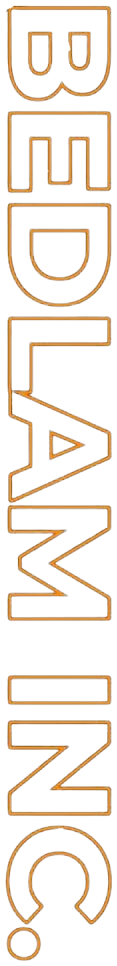
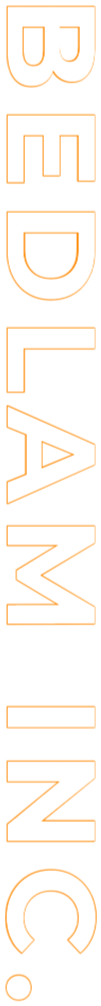
added bg text

Changed region(s): [[0.0594, 0.0, 0.9802, 0.6522], [0.0297, 0.6832, 0.9802, 1.0]]

diff --git a/docs/output.css b/docs/output.css
@@ -37,7 +37,6 @@
     --default-mono-font-family: var(--font-mono);
     --font-roboto: "Roboto", sans-serif;
     --color-acent: #ff8a00;
-    --animate-next1: next1 1s ease-in forwards;
   }
 }
 @layer base {
@@ -242,24 +241,6 @@
   .left-\[100\%\] {
     left: 100%;
   }
-  .container {
-    width: 100%;
-    @media (width >= 40rem) {
-      max-width: 40rem;
-    }
-    @media (width >= 48rem) {
-      max-width: 48rem;
-    }
-    @media (width >= 64rem) {
-      max-width: 64rem;
-    }
-    @media (width >= 80rem) {
-      max-width: 80rem;
-    }
-    @media (width >= 96rem) {
-      max-width: 96rem;
-    }
-  }
   .mx-4 {
     margin-inline: calc(var(--spacing) * 4);
   }
@@ -435,6 +416,12 @@
   .bg-\[\#0e0e0e\] {
     background-color: #0e0e0e;
   }
+  .bg-\[url\(\'images\/BEDLAM-INC\.png\'\)\,\] {
+    background-color: url('images/BEDLAM-INC.png'),;
+  }
+  .bg-\[url\] {
+    background-color: url;
+  }
   .bg-acent {
     background-color: var(--color-acent);
   }
@@ -444,17 +431,167 @@
   .bg-neutral-200 {
     background-color: var(--color-neutral-200);
   }
-  .bg-neutral-400 {
-    background-color: var(--color-neutral-400);
+  .bg-neutral-500 {
+    background-color: var(--color-neutral-500);
   }
   .bg-white {
     background-color: var(--color-white);
   }
+  .bg-\[url\(\'\'\)\] {
+    background-image: url('');
+  }
   .bg-\[url\(\'\/img\/top-left\.png\'\)\,url\(\'\/img\/top-right\.png\'\)\,url\(\'\/img\/bottom-left\.png\'\)\,url\(\'\/img\/bottom-right\.png\'\)\] {
     background-image: url('/img/top-left.png'),url('/img/top-right.png'),url('/img/bottom-left.png'),url('/img/bottom-right.png');
   }
+  .bg-\[url\(\'im\'\)\,url\(\'\/img\/top-right\.png\'\)\,url\(\'\/img\/bottom-left\.png\'\)\,url\(\'\/img\/bottom-right\.png\'\)\] {
+    background-image: url('im'),url('/img/top-right.png'),url('/img/bottom-left.png'),url('/img/bottom-right.png');
+  }
+  .bg-\[url\(\'ima\'\)\,url\(\'\/img\/top-right\.png\'\)\,url\(\'\/img\/bottom-left\.png\'\)\,url\(\'\/img\/bottom-right\.png\'\)\] {
+    background-image: url('ima'),url('/img/top-right.png'),url('/img/bottom-left.png'),url('/img/bottom-right.png');
+  }
+  .bg-\[url\(\'images\/\'\)\] {
+    background-image: url('images/');
+  }
+  .bg-\[url\(\'images\/BEDLAM\'\)\] {
+    background-image: url('images/BEDLAM');
+  }
+  .bg-\[url\(\'images\/BEDLAM-INC\'\)\] {
+    background-image: url('images/BEDLAM-INC');
+  }
+  .bg-\[url\(\'images\/BEDLAM-INC\.PNG\'\)\] {
+    background-image: url('images/BEDLAM-INC.PNG');
+  }
+  .bg-\[url\(\'images\/BEDLAM-INC\.png\'\)\,url\(\'images\/BEDLAM-INC\.png\'\)\,url\(\'images\/BEDLAM-INC\.png\'\)\,url\(\'images\/BEDLAM-INC\.png\'\)\,url\(\'images\/BEDLAM-INC\.png\'\)\] {
+    background-image: url('images/BEDLAM-INC.png'),url('images/BEDLAM-INC.png'),url('images/BEDLAM-INC.png'),url('images/BEDLAM-INC.png'),url('images/BEDLAM-INC.png');
+  }
+  .bg-\[url\(\'images\/BEDLAM-INC\.png\'\)\] {
+    background-image: url('images/BEDLAM-INC.png');
+  }
+  .bg-\[url\(\)\] {
+    background-image: url();
+  }
+  .bg-clip-text {
+    background-clip: text;
+  }
+  .\[background-position\:1rem\] {
+    background-position: 1rem;
+  }
   .\[background-position\:1rem_2rem\,calc\(100\%-5rem\)_2rem\,1rem_calc\(100\%-5rem\)\,calc\(100\%-5rem\)_calc\(100\%-5rem\)\] {
     background-position: 1rem 2rem,calc(100% - 5rem) 2rem,1rem calc(100% - 5rem),calc(100% - 5rem) calc(100% - 5rem);
+  }
+  .\[background-position\:1rem_2rem\,calc\(100\%_-_5rem\)_2rem\,1rem_calc\(100\%_-_5rem\)\,calc\(100\%_-_5rem\)_calc\(100\%_-_5rem\)\] {
+    background-position: 1rem 2rem,calc(100% - 5rem) 2rem,1rem calc(100% - 5rem),calc(100% - 5rem) calc(100% - 5rem);
+  }
+  .\[background-position\:1rem_2rem\] {
+    background-position: 1rem 2rem;
+  }
+  .bg-position-\[1rem_0rem\,calc\(100\%-5rem\)_2rem\,1rem_calc\(100\%-5rem\)\,calc\(100\%-5rem\)_calc\(100\%-5rem\)\] {
+    background-position: 1rem 0rem,calc(100% - 5rem) 2rem,1rem calc(100% - 5rem),calc(100% - 5rem) calc(100% - 5rem);
+  }
+  .bg-position-\[1rem_2rem\,calc\(100\%-5rem\)_2rem\,1rem_calc\(100\%-5rem\)\,calc\(100\%-5rem\)_calc\(100\%-5rem\)\] {
+    background-position: 1rem 2rem,calc(100% - 5rem) 2rem,1rem calc(100% - 5rem),calc(100% - 5rem) calc(100% - 5rem);
+  }
+  .bg-position-\[1rem_2rem\] {
+    background-position: 1rem 2rem;
+  }
+  .bg-position-\[1rem_10rem\,calc\(100\%-5rem\)_2rem\,1rem_calc\(100\%-5rem\)\,calc\(100\%-5rem\)_calc\(100\%-5rem\)\] {
+    background-position: 1rem 10rem,calc(100% - 5rem) 2rem,1rem calc(100% - 5rem),calc(100% - 5rem) calc(100% - 5rem);
+  }
+  .bg-position-\[1rem_30rem\,calc\(100\%-5rem\)_2rem\,1rem_calc\(100\%-5rem\)\,calc\(100\%-5rem\)_calc\(100\%-5rem\)\] {
+    background-position: 1rem 30rem,calc(100% - 5rem) 2rem,1rem calc(100% - 5rem),calc(100% - 5rem) calc(100% - 5rem);
+  }
+  .bg-position-\[1rem_35rem\,calc\(100\%-5rem\)_2rem\,1rem_calc\(100\%-5rem\)\,calc\(100\%-5rem\)_calc\(100\%-5rem\)\] {
+    background-position: 1rem 35rem,calc(100% - 5rem) 2rem,1rem calc(100% - 5rem),calc(100% - 5rem) calc(100% - 5rem);
+  }
+  .bg-position-\[1rem_40rem\,calc\(100\%-5rem\)_2rem\,1rem_calc\(100\%-5rem\)\,calc\(100\%-5rem\)_calc\(100\%-5rem\)\] {
+    background-position: 1rem 40rem,calc(100% - 5rem) 2rem,1rem calc(100% - 5rem),calc(100% - 5rem) calc(100% - 5rem);
+  }
+  .bg-position-\[1rem_50rem\,10_2rem\,1rem_calc\(100\%-5rem\)\,calc\(100\%-5rem\)_calc\(100\%-5rem\)\] {
+    background-position: 1rem 50rem,10 2rem,1rem calc(100% - 5rem),calc(100% - 5rem) calc(100% - 5rem);
+  }
+  .bg-position-\[1rem_50rem\,100rem_2rem\,1rem_calc\(100\%-5rem\)\,calc\(100\%-5rem\)_calc\(100\%-5rem\)\] {
+    background-position: 1rem 50rem,100rem 2rem,1rem calc(100% - 5rem),calc(100% - 5rem) calc(100% - 5rem);
+  }
+  .bg-position-\[1rem_50rem\,_2rem\,1rem_calc\(100\%-5rem\)\,calc\(100\%-5rem\)_calc\(100\%-5rem\)\] {
+    background-position: 1rem 50rem, 2rem,1rem calc(100% - 5rem),calc(100% - 5rem) calc(100% - 5rem);
+  }
+  .bg-position-\[1rem_50rem\,calc\(100\%-1rem\)_2rem\,1rem_calc\(100\%-5rem\)\,calc\(100\%-5rem\)_calc\(100\%-5rem\)\] {
+    background-position: 1rem 50rem,calc(100% - 1rem) 2rem,1rem calc(100% - 5rem),calc(100% - 5rem) calc(100% - 5rem);
+  }
+  .bg-position-\[1rem_50rem\,calc\(100\%-2rem\)_2rem\,1rem_calc\(100\%-5rem\)\,calc\(100\%-5rem\)_calc\(100\%-5rem\)\] {
+    background-position: 1rem 50rem,calc(100% - 2rem) 2rem,1rem calc(100% - 5rem),calc(100% - 5rem) calc(100% - 5rem);
+  }
+  .bg-position-\[1rem_50rem\,calc\(100\%-5rem\)_2rem\,1rem_calc\(100\%-5rem\)\,calc\(100\%-5rem\)_calc\(100\%-5rem\)\] {
+    background-position: 1rem 50rem,calc(100% - 5rem) 2rem,1rem calc(100% - 5rem),calc(100% - 5rem) calc(100% - 5rem);
+  }
+  .bg-position-\[1rem_rem\,calc\(100\%-5rem\)_2rem\,1rem_calc\(100\%-5rem\)\,calc\(100\%-5rem\)_calc\(100\%-5rem\)\] {
+    background-position: 1rem rem,calc(100% - 5rem) 2rem,1rem calc(100% - 5rem),calc(100% - 5rem) calc(100% - 5rem);
+  }
+  .bg-position-\[2rem_45rem\,calc\(100\%-2rem\)_10rem\,2rem_10rem\,calc\(100\%-5rem\)_calc\(100\%-5rem\)\] {
+    background-position: 2rem 45rem,calc(100% - 2rem) 10rem,2rem 10rem,calc(100% - 5rem) calc(100% - 5rem);
+  }
+  .bg-position-\[2rem_45rem\,calc\(100\%-2rem\)_10rem\,2rem_100rem\,calc\(100\%-5rem\)_calc\(100\%-5rem\)\] {
+    background-position: 2rem 45rem,calc(100% - 2rem) 10rem,2rem 100rem,calc(100% - 5rem) calc(100% - 5rem);
+  }
+  .bg-position-\[2rem_45rem\,calc\(100\%-2rem\)_10rem\,2rem_150rem\,calc\(100\%-5rem\)_calc\(100\%-5rem\)\] {
+    background-position: 2rem 45rem,calc(100% - 2rem) 10rem,2rem 150rem,calc(100% - 5rem) calc(100% - 5rem);
+  }
+  .bg-position-\[2rem_45rem\,calc\(100\%-2rem\)_10rem\,2rem_200rem\,calc\(100\%-2rem\)0rem\] {
+    background-position: 2rem 45rem,calc(100% - 2rem) 10rem,2rem 200rem,calc(100% - 2rem)0rem;
+  }
+  .bg-position-\[2rem_45rem\,calc\(100\%-2rem\)_10rem\,2rem_200rem\,calc\(100\%-2rem\)_50rem\] {
+    background-position: 2rem 45rem,calc(100% - 2rem) 10rem,2rem 200rem,calc(100% - 2rem) 50rem;
+  }
+  .bg-position-\[2rem_45rem\,calc\(100\%-2rem\)_10rem\,2rem_200rem\,calc\(100\%-2rem\)_70rem\] {
+    background-position: 2rem 45rem,calc(100% - 2rem) 10rem,2rem 200rem,calc(100% - 2rem) 70rem;
+  }
+  .bg-position-\[2rem_45rem\,calc\(100\%-2rem\)_10rem\,2rem_200rem\,calc\(100\%-2rem\)_85rem\] {
+    background-position: 2rem 45rem,calc(100% - 2rem) 10rem,2rem 200rem,calc(100% - 2rem) 85rem;
+  }
+  .bg-position-\[2rem_45rem\,calc\(100\%-2rem\)_10rem\,2rem_200rem\,calc\(100\%-2rem\)_90rem\] {
+    background-position: 2rem 45rem,calc(100% - 2rem) 10rem,2rem 200rem,calc(100% - 2rem) 90rem;
+  }
+  .bg-position-\[2rem_45rem\,calc\(100\%-2rem\)_10rem\,2rem_200rem\,calc\(100\%-2rem\)_\] {
+    background-position: 2rem 45rem,calc(100% - 2rem) 10rem,2rem 200rem,calc(100% - 2rem) ;
+  }
+  .bg-position-\[2rem_45rem\,calc\(100\%-2rem\)_10rem\,2rem_200rem\,calc\(100\%-2rem\)_calc\(100\%-5rem\)\] {
+    background-position: 2rem 45rem,calc(100% - 2rem) 10rem,2rem 200rem,calc(100% - 2rem) calc(100% - 5rem);
+  }
+  .bg-position-\[2rem_45rem\,calc\(100\%-2rem\)_10rem\,2rem_200rem\,calc\(100\%-2rem\)_rem\] {
+    background-position: 2rem 45rem,calc(100% - 2rem) 10rem,2rem 200rem,calc(100% - 2rem) rem;
+  }
+  .bg-position-\[2rem_45rem\,calc\(100\%-2rem\)_10rem\,2rem_200rem\,calc\(100\%-5rem\)_calc\(100\%-5rem\)\] {
+    background-position: 2rem 45rem,calc(100% - 2rem) 10rem,2rem 200rem,calc(100% - 5rem) calc(100% - 5rem);
+  }
+  .bg-position-\[2rem_45rem\,calc\(100\%-2rem\)_10rem\,2rem_20050rem\,calc\(100\%-5rem\)_calc\(100\%-5rem\)\] {
+    background-position: 2rem 45rem,calc(100% - 2rem) 10rem,2rem 20050rem,calc(100% - 5rem) calc(100% - 5rem);
+  }
+  .bg-position-\[2rem_50rem\,calc\(100\%-2rem\)_2rem\,1rem_calc\(100\%-5rem\)\,calc\(100\%-5rem\)_calc\(100\%-5rem\)\] {
+    background-position: 2rem 50rem,calc(100% - 2rem) 2rem,1rem calc(100% - 5rem),calc(100% - 5rem) calc(100% - 5rem);
+  }
+  .bg-position-\[2rem_50rem\,calc\(100\%-2rem\)_2rem\,2rem_calc\(100\%-5rem\)\,calc\(100\%-5rem\)_calc\(100\%-5rem\)\] {
+    background-position: 2rem 50rem,calc(100% - 2rem) 2rem,2rem calc(100% - 5rem),calc(100% - 5rem) calc(100% - 5rem);
+  }
+  .bg-position-\[2rem_50rem\,calc\(100\%-2rem\)_10rem\,2rem_\,calc\(100\%-5rem\)_calc\(100\%-5rem\)\] {
+    background-position: 2rem 50rem,calc(100% - 2rem) 10rem,2rem ,calc(100% - 5rem) calc(100% - 5rem);
+  }
+  .bg-position-\[2rem_50rem\,calc\(100\%-2rem\)_10rem\,2rem_55\,calc\(100\%-5rem\)_calc\(100\%-5rem\)\] {
+    background-position: 2rem 50rem,calc(100% - 2rem) 10rem,2rem 55,calc(100% - 5rem) calc(100% - 5rem);
+  }
+  .bg-position-\[2rem_50rem\,calc\(100\%-2rem\)_10rem\,2rem_55rem\,calc\(100\%-5rem\)_calc\(100\%-5rem\)\] {
+    background-position: 2rem 50rem,calc(100% - 2rem) 10rem,2rem 55rem,calc(100% - 5rem) calc(100% - 5rem);
+  }
+  .bg-position-\[2rem_50rem\,calc\(100\%-2rem\)_10rem\,2rem_100rem\,calc\(100\%-5rem\)_calc\(100\%-5rem\)\] {
+    background-position: 2rem 50rem,calc(100% - 2rem) 10rem,2rem 100rem,calc(100% - 5rem) calc(100% - 5rem);
+  }
+  .bg-position-\[2rem_50rem\,calc\(100\%-2rem\)_10rem\,2rem_calc\(100\%-5rem\)\,calc\(100\%-5rem\)_calc\(100\%-5rem\)\] {
+    background-position: 2rem 50rem,calc(100% - 2rem) 10rem,2rem calc(100% - 5rem),calc(100% - 5rem) calc(100% - 5rem);
+  }
+  .bg-position-\[2rem_50rem\,calc\(100\%-2rem\)_10rem\,2rem_rem\,calc\(100\%-5rem\)_calc\(100\%-5rem\)\] {
+    background-position: 2rem 50rem,calc(100% - 2rem) 10rem,2rem rem,calc(100% - 5rem) calc(100% - 5rem);
+  }
+  .bg-position-\[2rem_rem\,calc\(100\%-2rem\)_10rem\,2rem_100rem\,calc\(100\%-5rem\)_calc\(100\%-5rem\)\] {
+    background-position: 2rem rem,calc(100% - 2rem) 10rem,2rem 100rem,calc(100% - 5rem) calc(100% - 5rem);
   }
   .bg-no-repeat {
     background-repeat: no-repeat;
@@ -557,6 +694,9 @@
     --tw-tracking: var(--tracking-wider);
     letter-spacing: var(--tracking-wider);
   }
+  .text-clip {
+    text-overflow: clip;
+  }
   .whitespace-nowrap {
     white-space: nowrap;
   }
@@ -584,6 +724,10 @@
   .outline {
     outline-style: var(--tw-outline-style);
     outline-width: 1px;
+  }
+  .duration-150 {
+    --tw-duration: 150ms;
+    transition-duration: 150ms;
   }
   .duration-200 {
     --tw-duration: 200ms;
@@ -625,6 +769,13 @@
     &:hover {
       @media (hover: hover) {
         color: var(--color-acent);
+      }
+    }
+  }
+  .hover\:text-neutral-400 {
+    &:hover {
+      @media (hover: hover) {
+        color: var(--color-neutral-400);
       }
     }
   }

diff --git a/docs/index.html b/docs/index.html
@@ -49,8 +49,8 @@
 
     </header>
 
-    <main class="bg-[#0e0e0e] text-white">
-        <section class="relative">
+    <main class="bg-[#0e0e0e] text-white bg-[url('images/BEDLAM-INC.png'),url('images/BEDLAM-INC.png'),url('images/BEDLAM-INC.png'),url('images/BEDLAM-INC.png'),url('images/BEDLAM-INC.png')] bg-position-[2rem_45rem,calc(100%-2rem)_10rem,2rem_200rem,calc(100%-2rem)_85rem] bg-no-repeat">
+        <section class="relative ">
             <!-- bg-[url('/img/top-left.png'),url('/img/top-right.png'),url('/img/bottom-left.png'),url('/img/bottom-right.png')]
 [background-position:1rem_2rem,calc(100%-5rem)_2rem,1rem_calc(100%-5rem),calc(100%-5rem)_calc(100%-5rem)] bg-no-repeat -->
             
@@ -164,29 +164,29 @@
 
                 <div>
                     <ul class="flex flex-col gap-6">
-                        <li><a href="#">SERVICES</a></li>
-                        <li><a href="#">STRATEGY</a></li>
-                        <li><a href="#">CAREER</a></li>
-                        <li><a href="#">INVESTOR</a></li>
+                        <li><a class="hover:text-neutral-400 duration-150 ease-in" href="#">SERVICES</a></li>
+                        <li><a class="hover:text-neutral-400 duration-150 ease-in" href="#">STRATEGY</a></li>
+                        <li><a class="hover:text-neutral-400 duration-150 ease-in" href="#">CAREER</a></li>
+                        <li><a class="hover:text-neutral-400 duration-150 ease-in" href="#">INVESTOR</a></li>
                     </ul>
                 </div>
 
                 <div>
                     <ul class="flex flex-col gap-6">
-                        <li><a href="#">INVESTOR</a></li>
-                        <li><a href="#">Our Product</a></li>
-                        <li><a href="#">OUR SERVICE</a></li>
-                        <li><a href="#">CONTACT</a></li>
+                        <li><a class="hover:text-neutral-400 duration-150 ease-in" href="#">INVESTOR</a></li>
+                        <li><a class="hover:text-neutral-400 duration-150 ease-in" href="#">Our Product</a></li>
+                        <li><a class="hover:text-neutral-400 duration-150 ease-in" href="#">OUR SERVICE</a></li>
+                        <li><a class="hover:text-neutral-400 duration-150 ease-in" href="#">CONTACT</a></li>
                     </ul>
                 </div>
 
                <div>
                    <ul class="flex flex-col gap-6">
-                        <li><a href="#">DEALER LOCATIONS</a></li>
-                        <li><a href="#">NEWS</a></li>
-                        <li><a href="#">FORUMS</a></li>
-                        <li><a href="#">CAREERS</a></li>
-                        <li><a href="#">cOMPANY</a></li>
+                        <li><a class="hover:text-neutral-400 duration-150 ease-in" href="#">DEALER LOCATIONS</a></li>
+                        <li><a class="hover:text-neutral-400 duration-150 ease-in" href="#">NEWS</a></li>
+                        <li><a class="hover:text-neutral-400 duration-150 ease-in" href="#">FORUMS</a></li>
+                        <li><a class="hover:text-neutral-400 duration-150 ease-in" href="#">CAREERS</a></li>
+                        <li><a class="hover:text-neutral-400 duration-150 ease-in" href="#">cOMPANY</a></li>
                     </ul>
                 </div>
 
@@ -201,9 +201,9 @@
 
                 <div>
                     <ul class="flex justify-between md:gap-16">
-                        <li class=""><a href="#">COOKIE POLICY</a></li>
-                        <li class=""><a href="#">LEGAL NOTICE</a></li>
-                        <li class=""><a href="#">COOKIE CONSENT OPTIONS</a></li>
+                        <li class=""><a class="hover:text-neutral-400 duration-150 ease-in" href="#">COOKIE POLICY</a></li>
+                        <li class=""><a class="hover:text-neutral-400 duration-150 ease-in" href="#">LEGAL NOTICE</a></li>
+                        <li class=""><a class="hover:text-neutral-400 duration-150 ease-in" href="#">COOKIE CONSENT OPTIONS</a></li>
                     </ul>
                 </div>
             </div>
